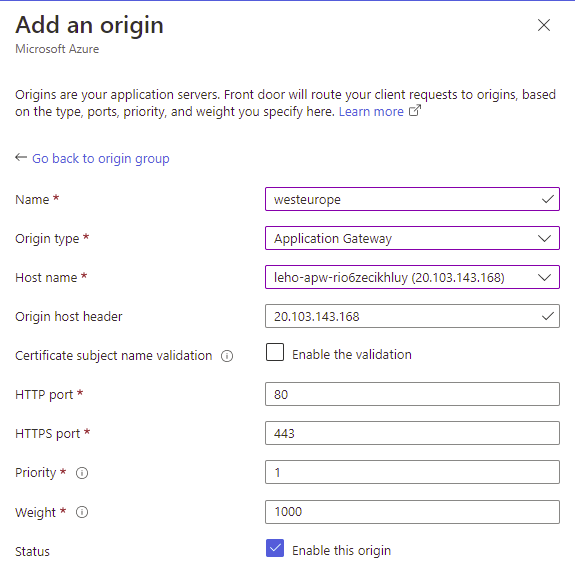
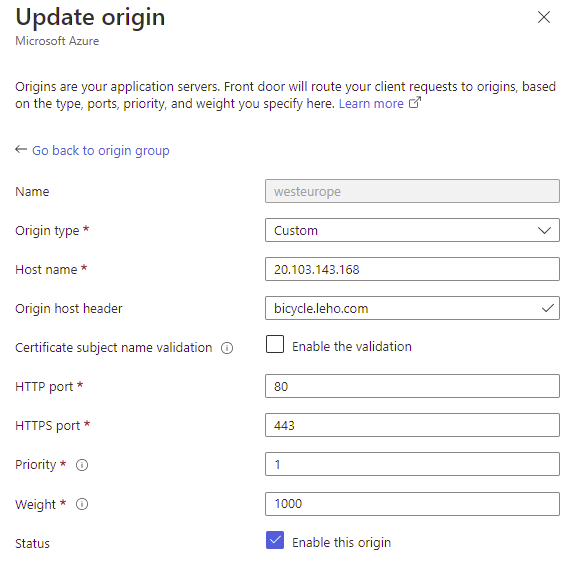
Some updates to multi-region.setup.

diff --git a/front-door/multi-region.md b/front-door/multi-region.md
@@ -10,10 +10,9 @@ After further consultation with their architecture team, they decide to test Azu
 ## Prerequesites
 - Make sure you have two independent deployments of the AKS baseline architecture reference implementation deployed and available.
 - These need to be deployed to *different regions*.
-- (!!!) When connecting to backend system, Front Door requires certificates issued by a well-known certificate authority. For the purpose of this walkthrough, only self-signed certificates have been created instead. This is why we will use the unencrypted http protocol (instead of https) to connect to the Application Gateways. *Do not use this setup* in a production environment, as it exposes unprotected public endpoints.
+- When connecting to backend system, Front Door requires certificates issued by a well-known certificate authority. For the purpose of this walkthrough, only self-signed certificates have been created instead. This is why we will use the unencrypted http protocol (instead of https) to connect to the Application Gateways. *Do not use this setup* in a production environment, as it exposes unprotected public endpoints.
   - Add a listener for port 80 in your Application Gateway configuration.
   - Remember to add a Firewall rule in the VNet hosting your Application Gateway.
-- If you have created self-signed certificates for the https endpoints exposed by the Application Gateway instances, make sure you have both available.
 
 
 ##  Walthrough Overview
@@ -48,17 +47,22 @@ In this overview, you will
 
    ![](img/017_new-fd_endpoint-configuration.png)
 
-   Add a route (HTTPS only):
+   Add a route:
+
+   (Make sure to only _accept_ HTTPS, but use HTTP for _forwarding_.)
 
    ![](img/016_new-fd_route.png)
    
-   Add a new origin group (!!! Probe Method: GET)
-
-   ![](img/014_new-fd_origin.png)
-
-   Add a new origin to the group. (If you used self-signed certificate for your Application Gateway, remember to uncheck the 'Enable the validation' checkbox.) (!!! Overwrite Host Header with 'bicycle....com')
+   Create a new origin group:
 
    ![](img/015_new-fd_origin-group.png)
+
+   And, to this origin group, add a new origin pointing to your Application Gateway as Backend. Please make sure to...
+   - ...use the IP as _Host name_,
+   - ...use the domain name `bicycle.[your domain]` as _Origin host header_.
+   - ...disable _Certificate subject name validation_.
+
+   ![](img/014_new-fd_origin.png)
 
    Skip the Security Policy for now.
 
